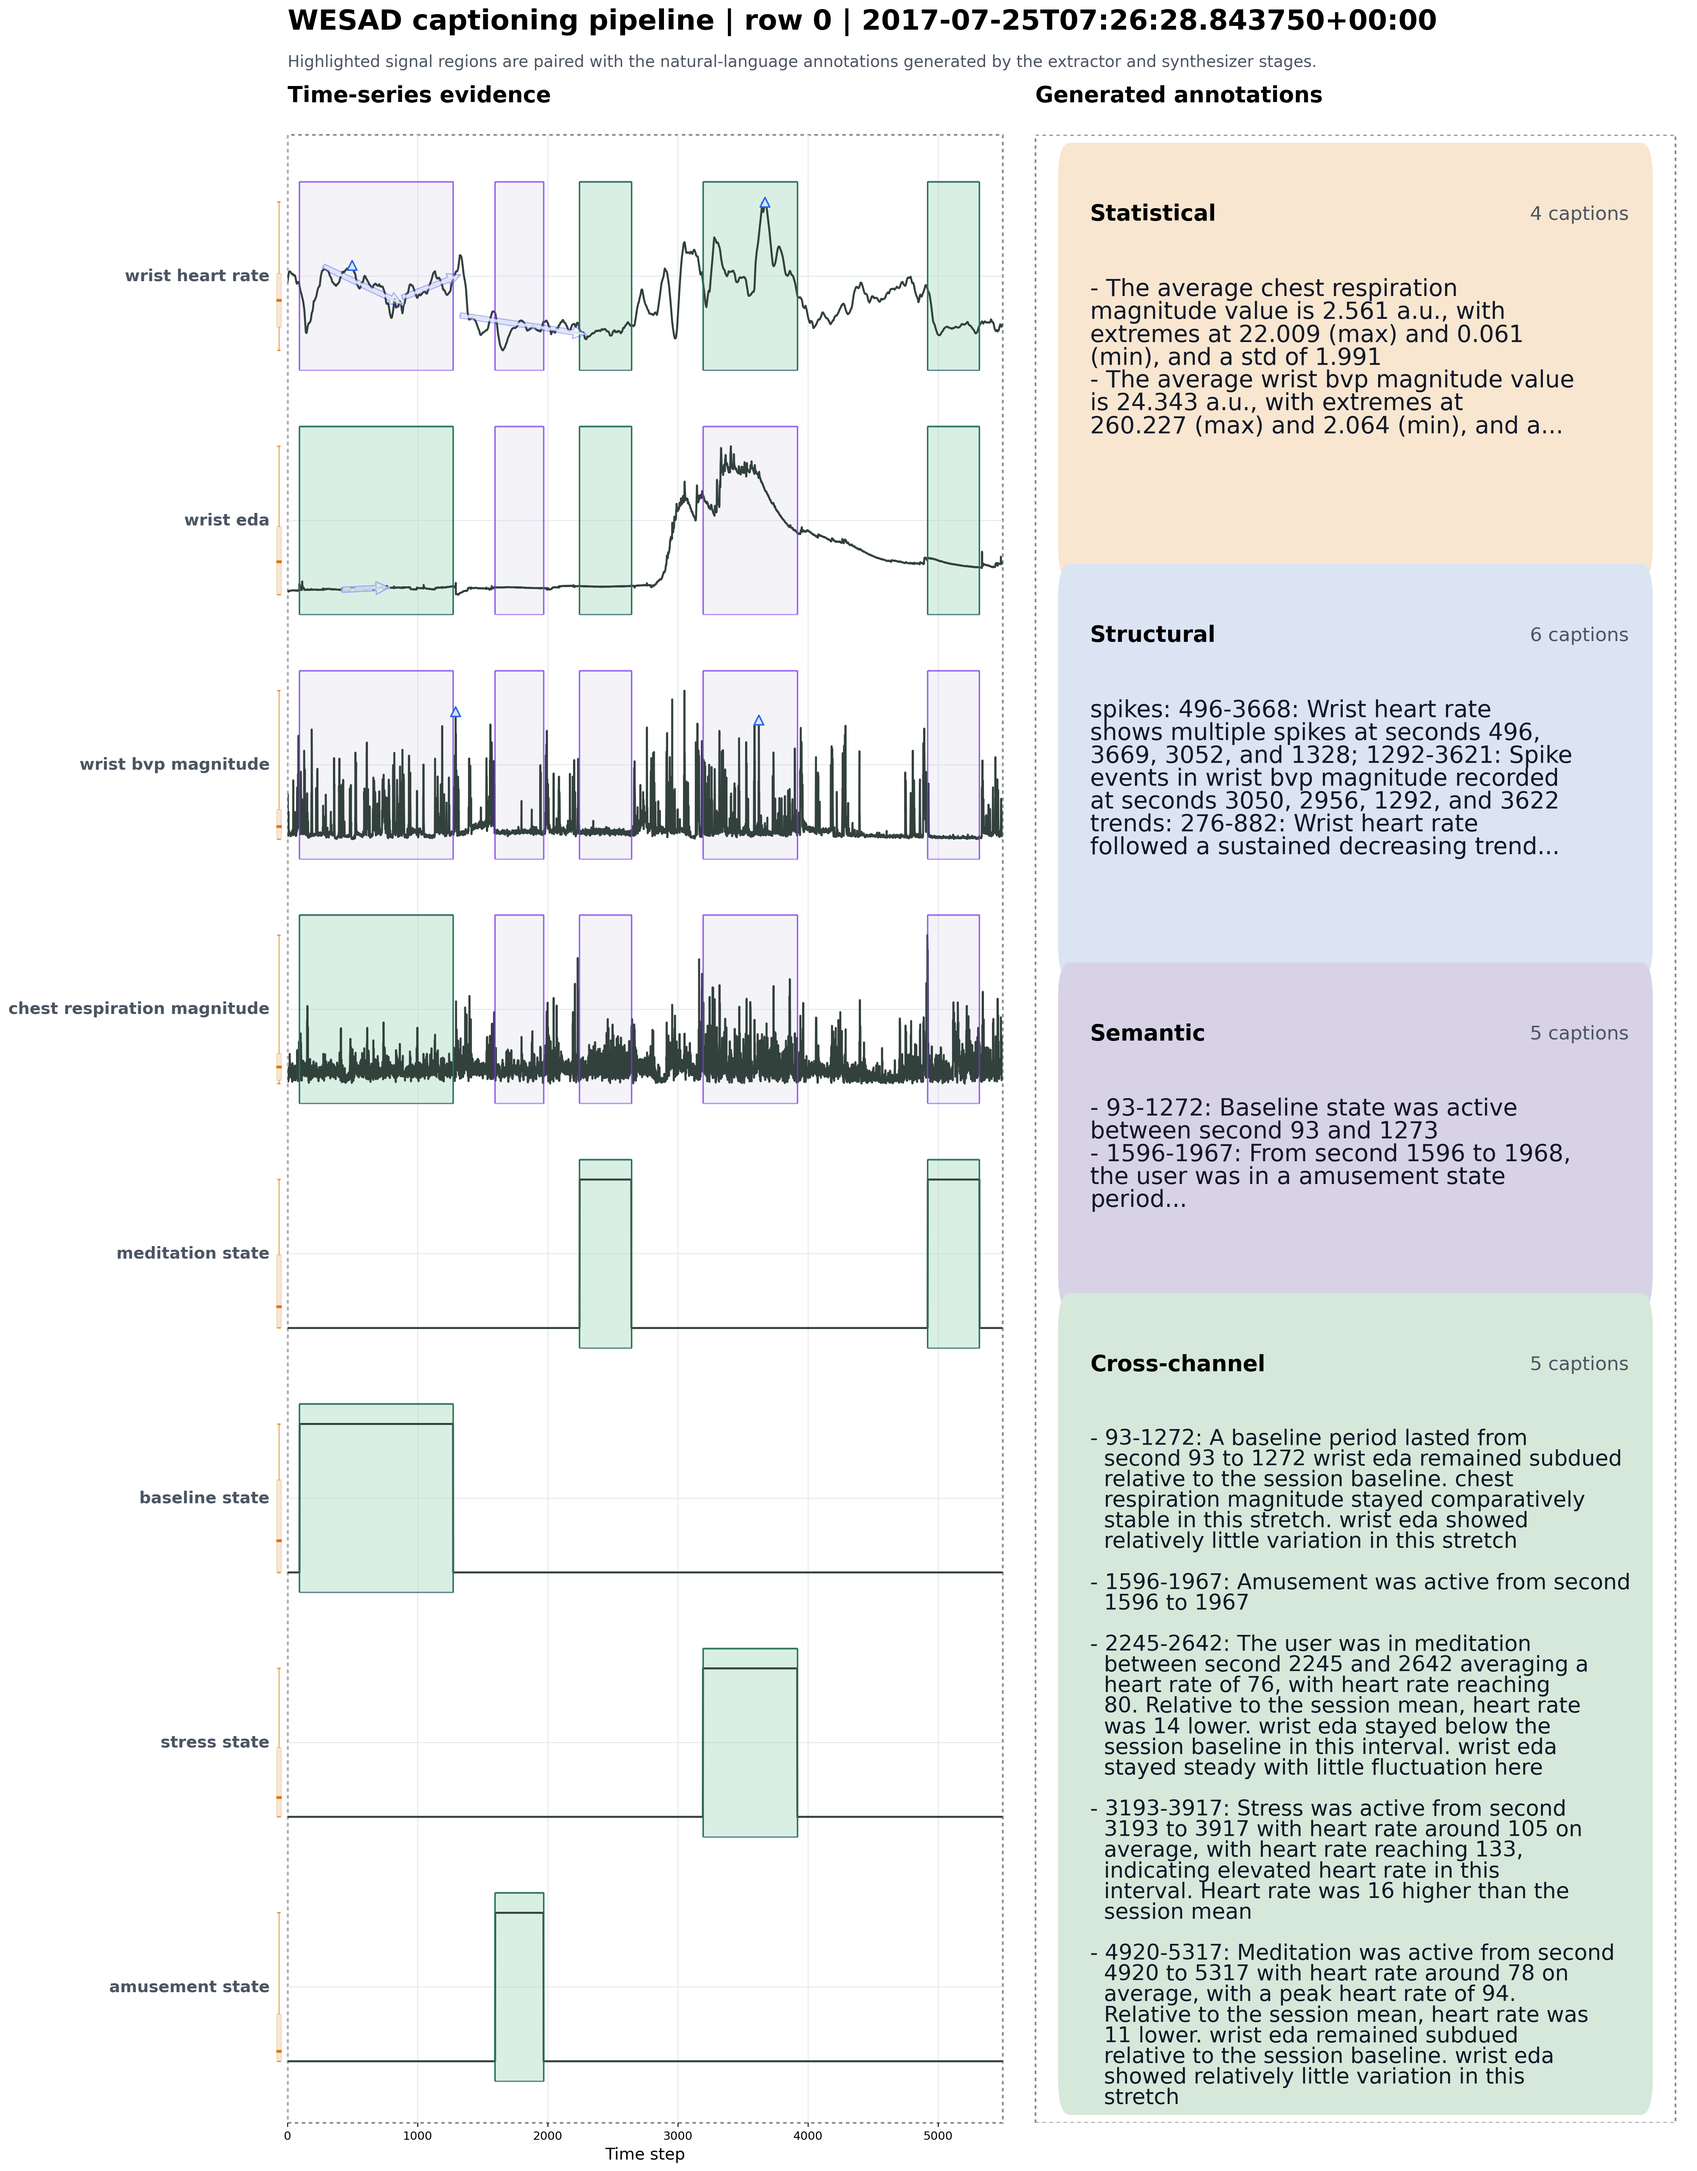
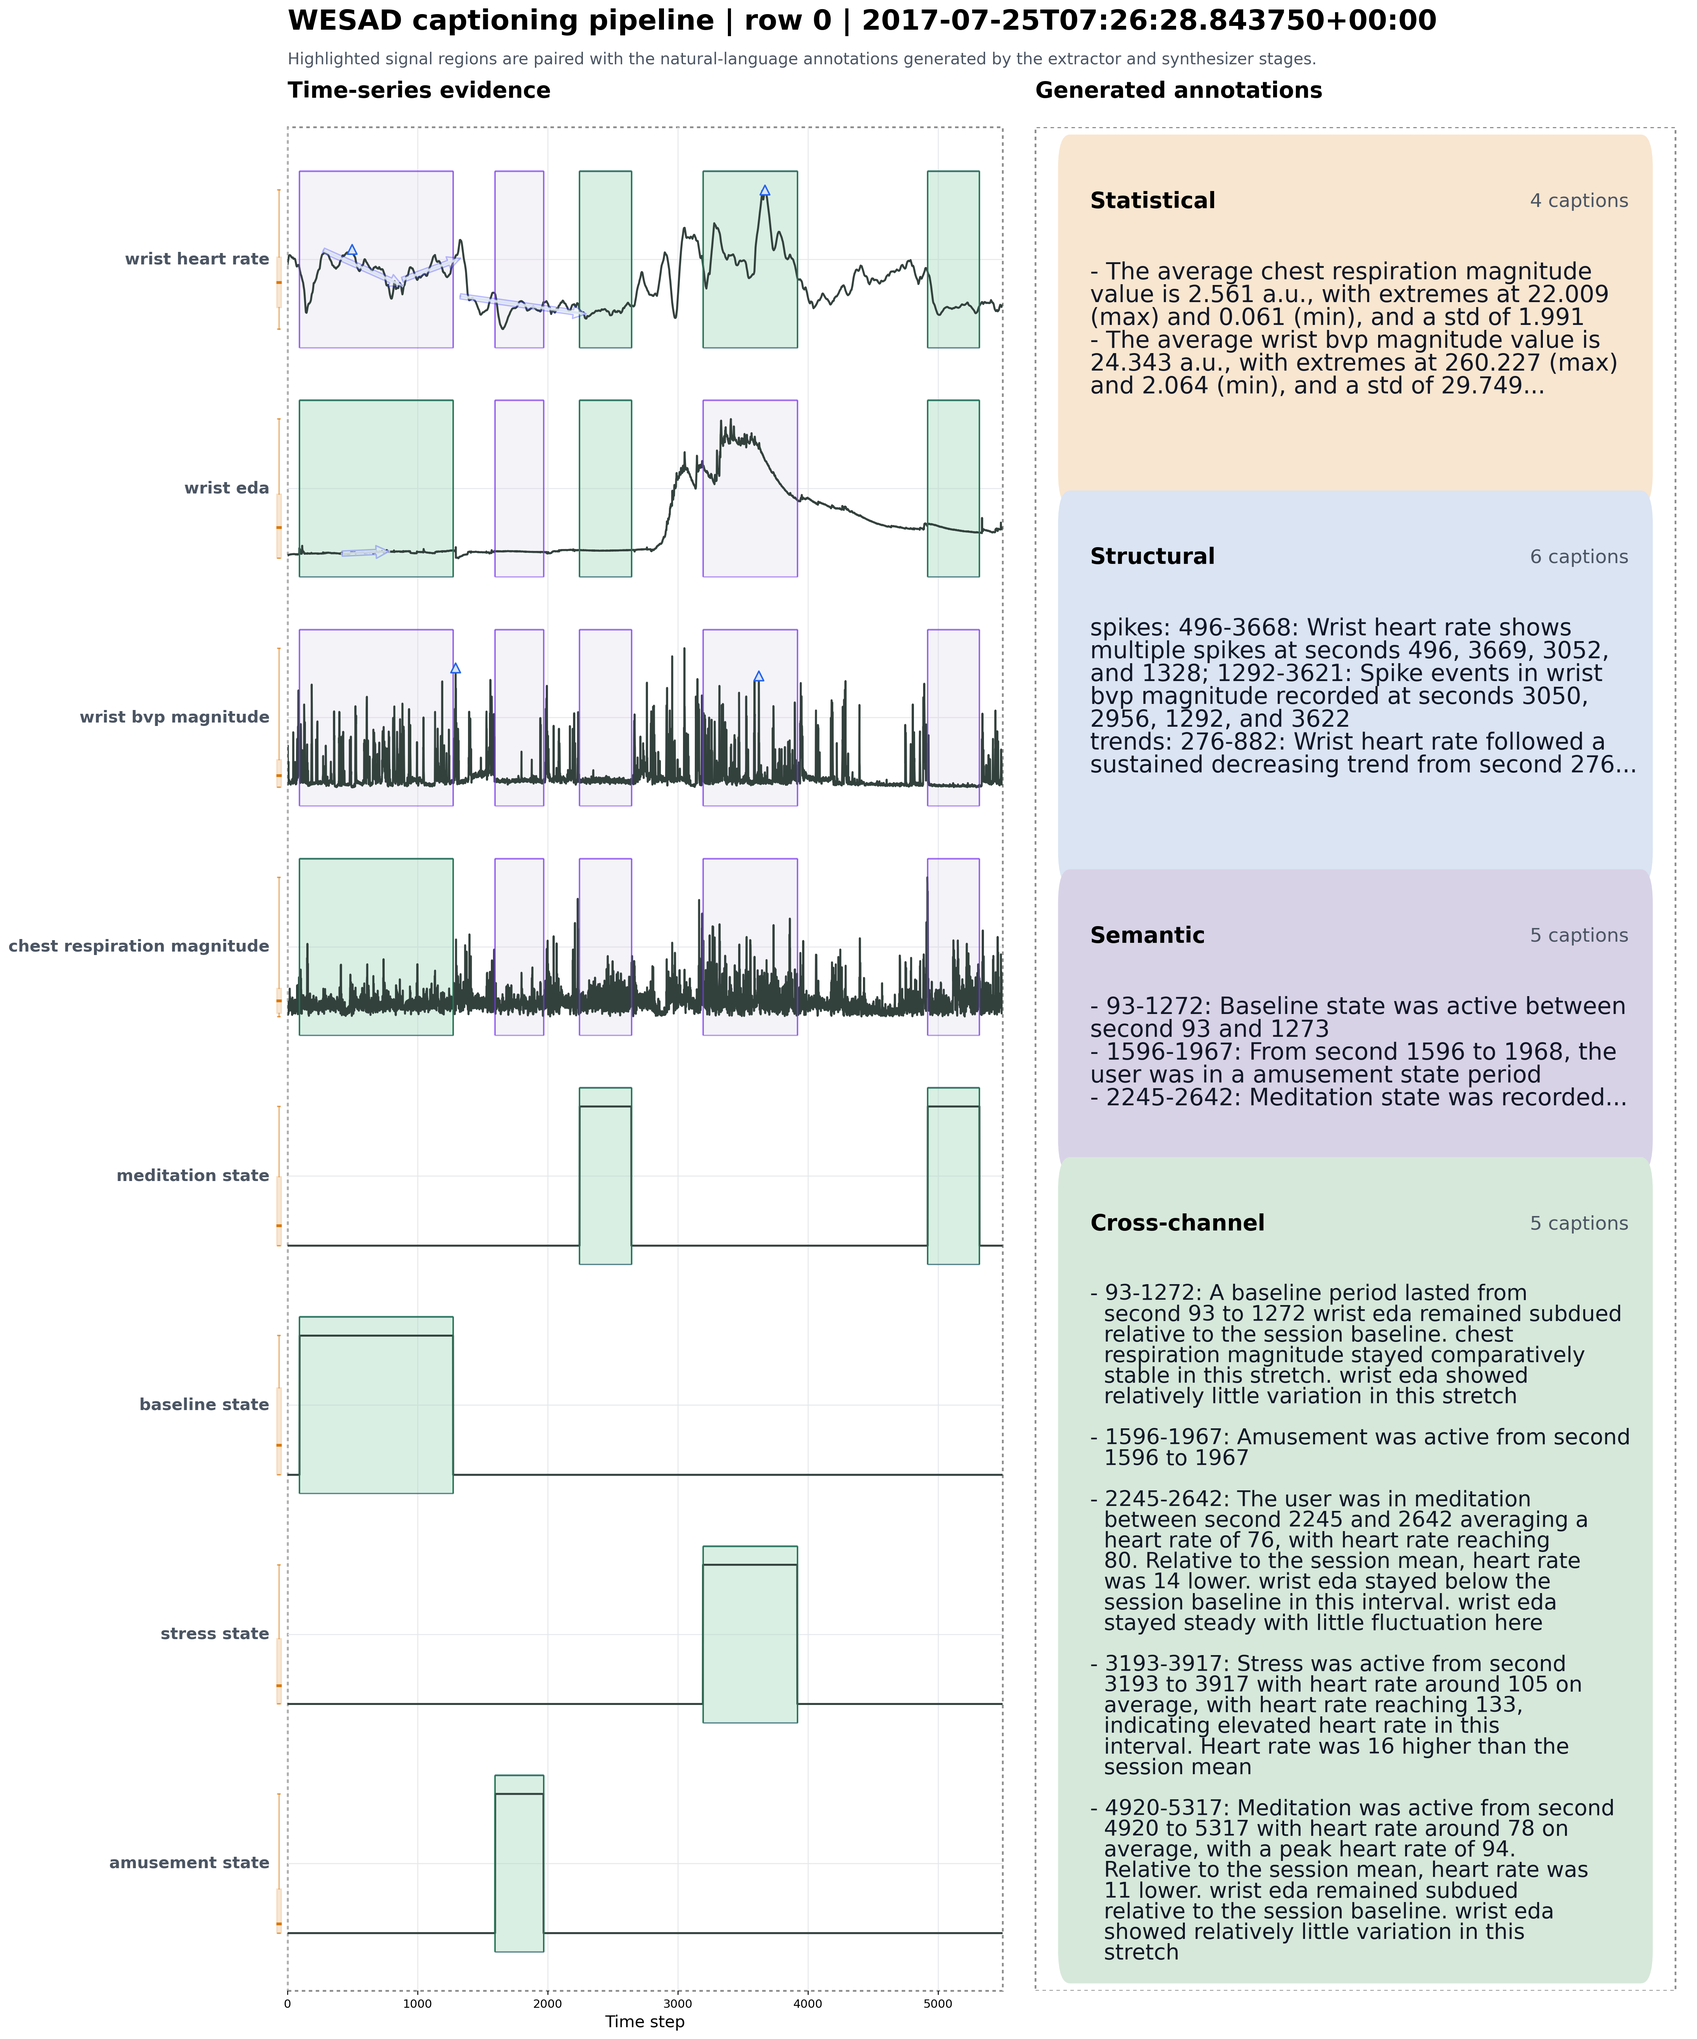
WESAD added

diff --git a/visualizer.py b/visualizer.py
@@ -998,7 +998,7 @@ def _wrapped_stage_card_lines(
     if caption_type == "cross_channel":
         wrapped = _wrap_cross_channel_text(text, width=48)
     else:
-        wrapped = _wrap_caption_text(text, width=39)
+        wrapped = _wrap_caption_text(text, width=44)
     # Removed fixed max_lines_by_type; use max_lines argument instead.
     if max_lines is not None and len(wrapped) > max_lines:
         wrapped = wrapped[:max_lines]
